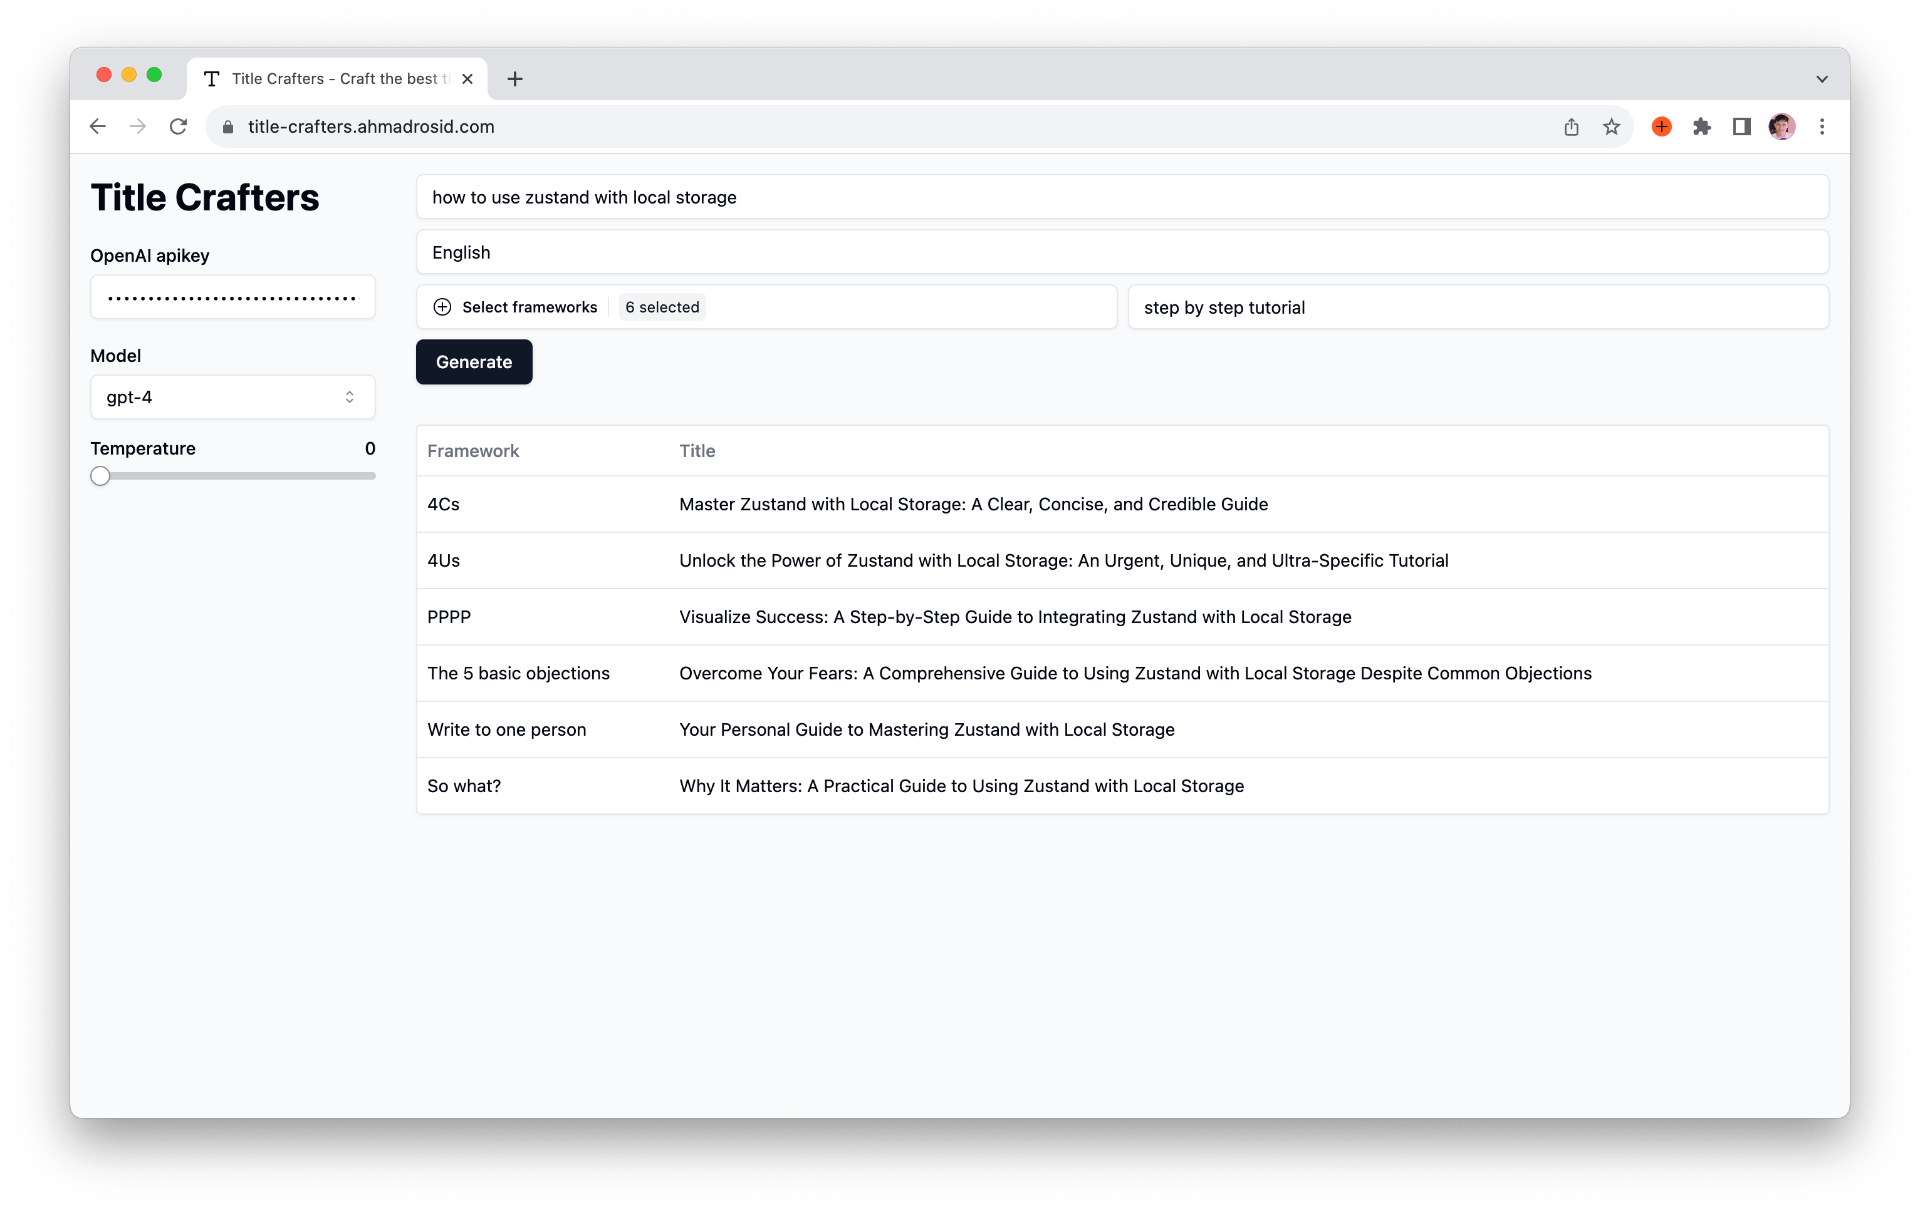
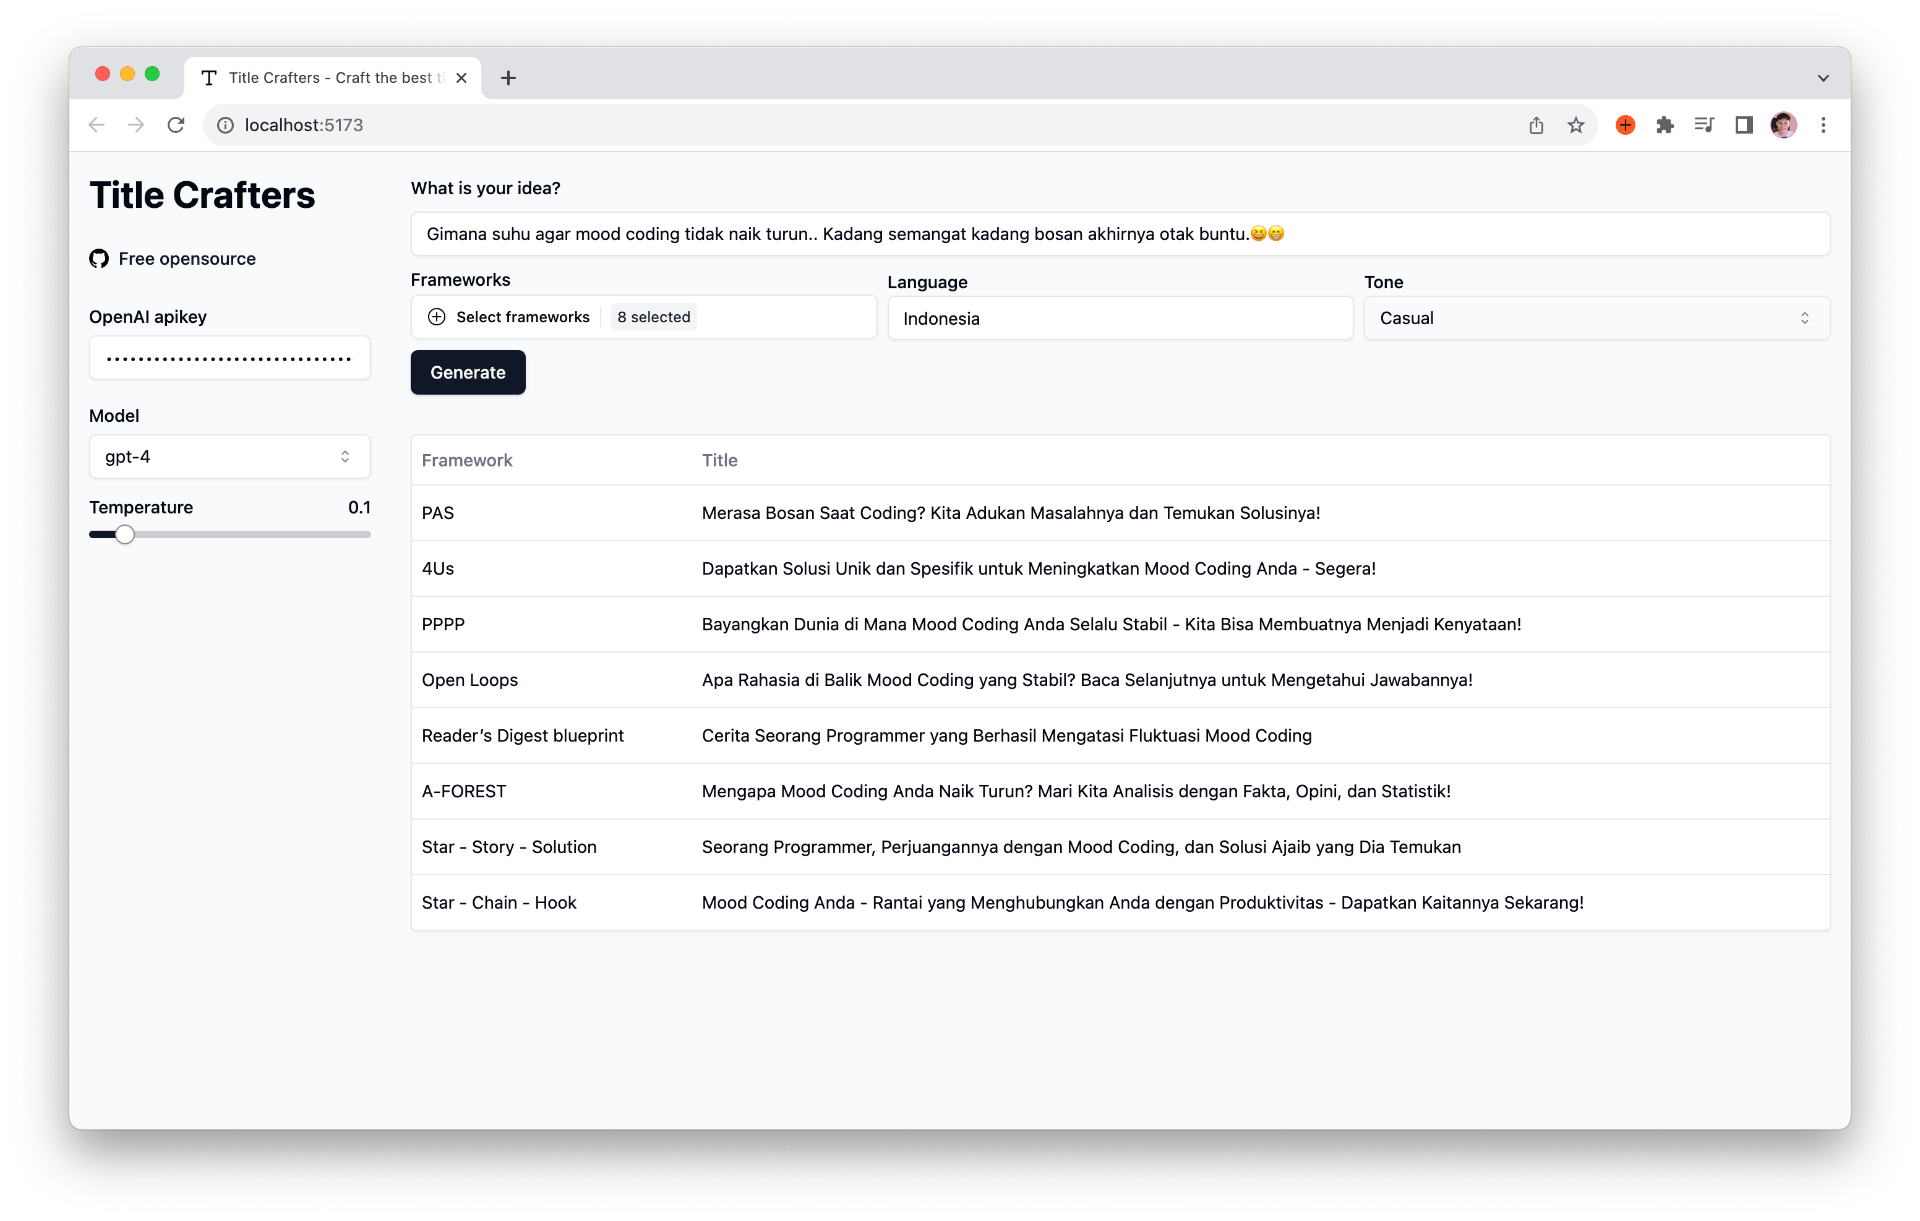
feat: improve user interface

diff --git a/src/App.tsx b/src/App.tsx
@@ -20,6 +20,7 @@ import {
 import { SelectFrameworks } from "./components/select-frameworks";
 import { GithubIcon } from "./components/github-icon";
 import { cn } from "./lib/utils";
+import { SelectTone } from "./components/select-tone";
 
 export default function App() {
   const { apikey, idea, temperature, model, results, style, frameworks } =
@@ -144,26 +145,33 @@ export default function App() {
         </div>
         <div className="flex-1">
           <div className="p-4 space-y-2">
+            <Label>What is your idea?</Label>
             <Input
               defaultValue={idea.title}
               onChange={(e) => setIdea({ ...idea, title: e.target.value })}
               type="text"
               placeholder="Enter your general idea"
             />
-            <Input
-              defaultValue={idea.language}
-              onChange={(e) => setIdea({ ...idea, language: e.target.value })}
-              type="text"
-              placeholder="Enter Language"
-            />
-            <div className="grid grid-cols-2 gap-2">
-              <SelectFrameworks />
-              <Input
-                defaultValue={style.content}
-                onChange={(e) => setStyle(e.target.value)}
-                type="text"
-                placeholder="Writing style"
-              />
+            <div className="grid grid-cols-1 sm:grid-cols-3 gap-2">
+              <div className="grid gap-1 pt-1">
+                <Label>Frameworks</Label>
+                <SelectFrameworks />
+              </div>
+              <div>
+                <Label>Language</Label>
+                <Input
+                  defaultValue={idea.language}
+                  onChange={(e) =>
+                    setIdea({ ...idea, language: e.target.value })
+                  }
+                  type="text"
+                  placeholder="Enter Language"
+                />
+              </div>
+              <div>
+                <Label>Tone</Label>
+                <SelectTone onValueChange={setStyle} />
+              </div>
             </div>
             <Button
               onClick={() => {

diff --git a/src/components/select-tone.tsx b/src/components/select-tone.tsx
@@ -1,0 +1,40 @@
+import {
+  Select,
+  SelectContent,
+  SelectGroup,
+  SelectItem,
+  SelectLabel,
+  SelectTrigger,
+  SelectValue,
+} from "@/components/ui/select";
+
+export function SelectTone({
+  onValueChange,
+}: {
+  onValueChange: (value: string) => void;
+}) {
+  const options = [
+    "Professional",
+    "Academic",
+    "Casual",
+    "Informative",
+    "Storytelling",
+  ];
+  return (
+    <Select onValueChange={onValueChange}>
+      <SelectTrigger className="w-full">
+        <SelectValue placeholder="Select tone" />
+      </SelectTrigger>
+      <SelectContent>
+        <SelectGroup>
+          <SelectLabel>Tone</SelectLabel>
+          {options.map((option) => (
+            <SelectItem key={option} value={option}>
+              {option}
+            </SelectItem>
+          ))}
+        </SelectGroup>
+      </SelectContent>
+    </Select>
+  );
+}
